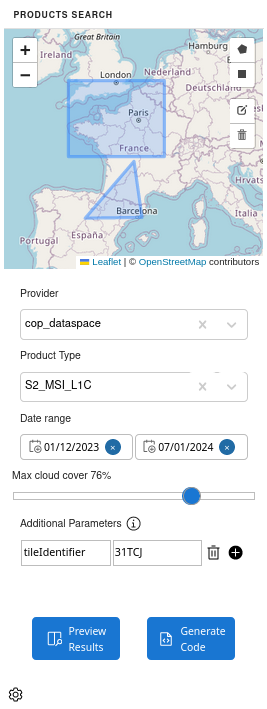
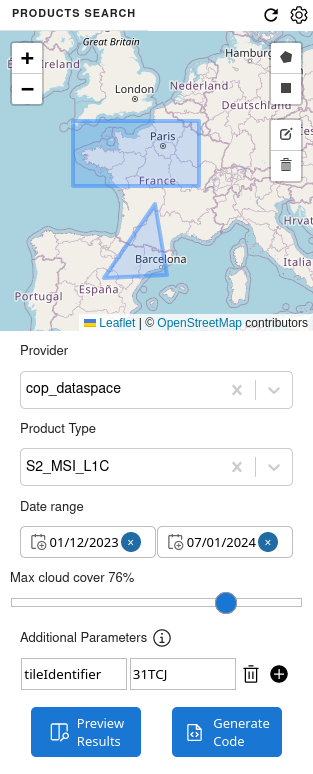
docs: update readme and user-manual (#145)

diff --git a/README.md b/README.md
@@ -23,6 +23,7 @@ Lab. The package consist of a Python Jupyter notebook REST service consumed by t
   - [Configuration](#configuration)
 - [QuickStart](#quickstart)
   - [Search](#search)
+  - [Settings](#settings)
   - [Results overview](#results-overview)
   - [Apply to the Jupyter notebook](#apply-to-the-jupyter-notebook)
   - [User manual](#user-manual)
@@ -94,9 +95,19 @@ Once search criteria are filled out, click on:
 - `Generate Code` to automatically generate and insert the corresponding eodag search code bellow the active cell.
 - `Preview Results` to perform a search in background, display results, and generate search code in a second step.
 
+## Settings
+
+![reload logo](https://raw.githubusercontent.com/CS-SI/eodag-labextension/develop/notebooks/images/eodag_labext_reload_icon.png)
+Click on this icon to reload [EODAG configuration](https://eodag.readthedocs.io/en/stable/getting_started_guide/configure.html)
+and take into account your updated credentials or providers settings.
+
 ![settings logo](https://raw.githubusercontent.com/CS-SI/eodag-labextension/develop/notebooks/images/eodag_labext_settings_icon.png)
-Click on this icon to open EODAG-Labextension settings. You will be enable to choose whether newly inserted code should
-replace existing search code or not.
+Click on this icon to open EODAG-Labextension settings. You will be enable to:
+
+- choose whether newly inserted code should replace existing search code or not;
+- configure the default map settings.
+
+![settings tab](https://raw.githubusercontent.com/CS-SI/eodag-labextension/develop/notebooks/images/eodag_labext_settings_map.png)
 
 ### Results overview
 
